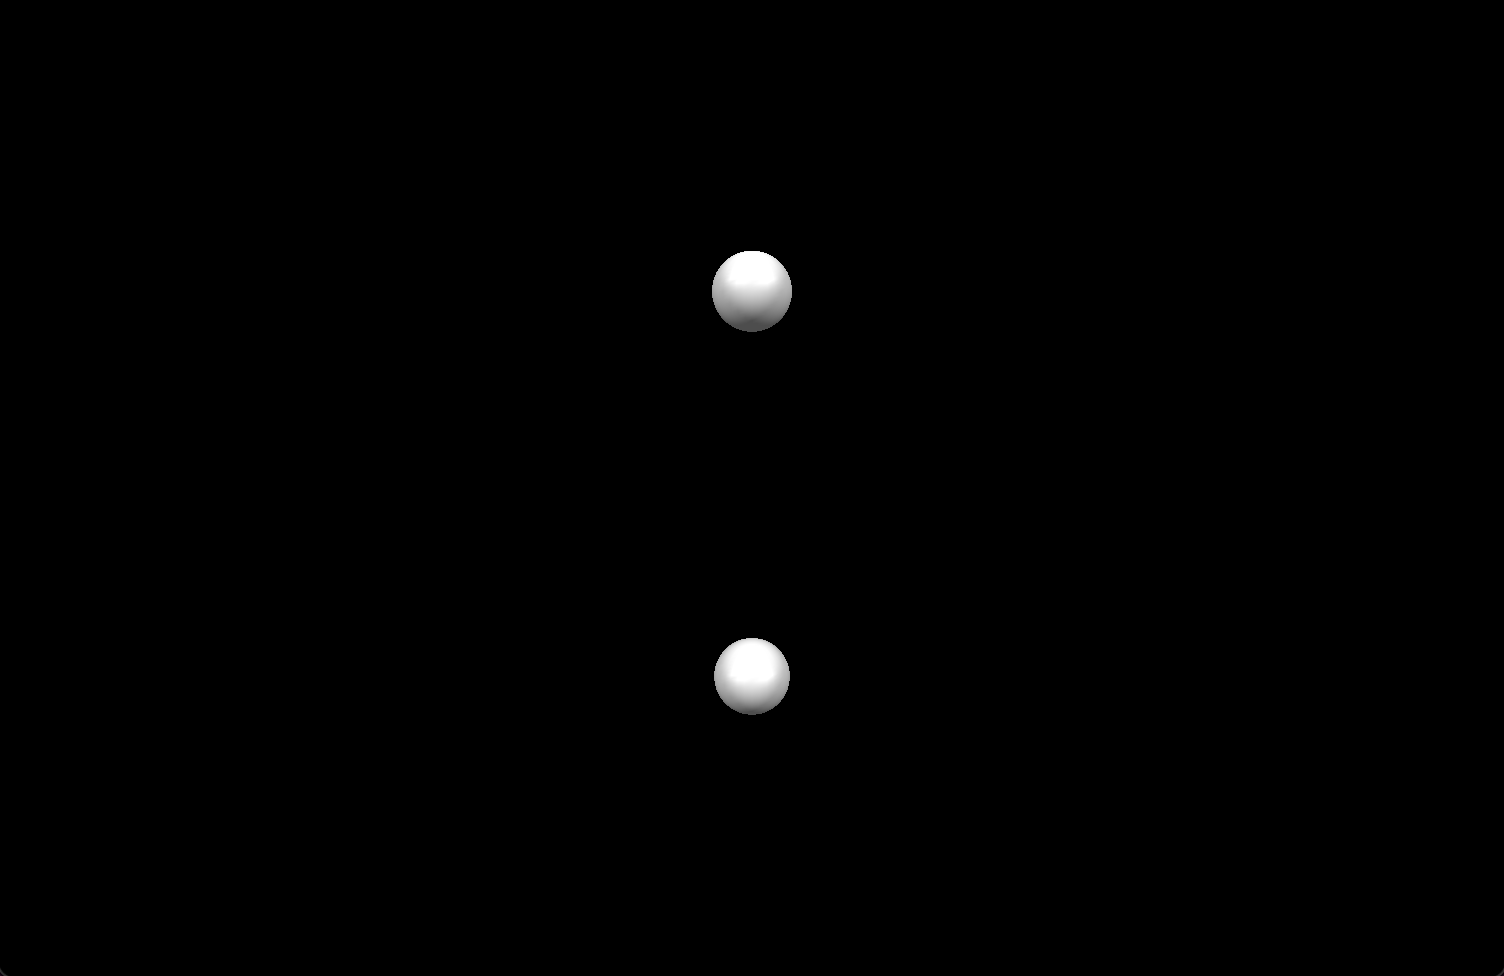
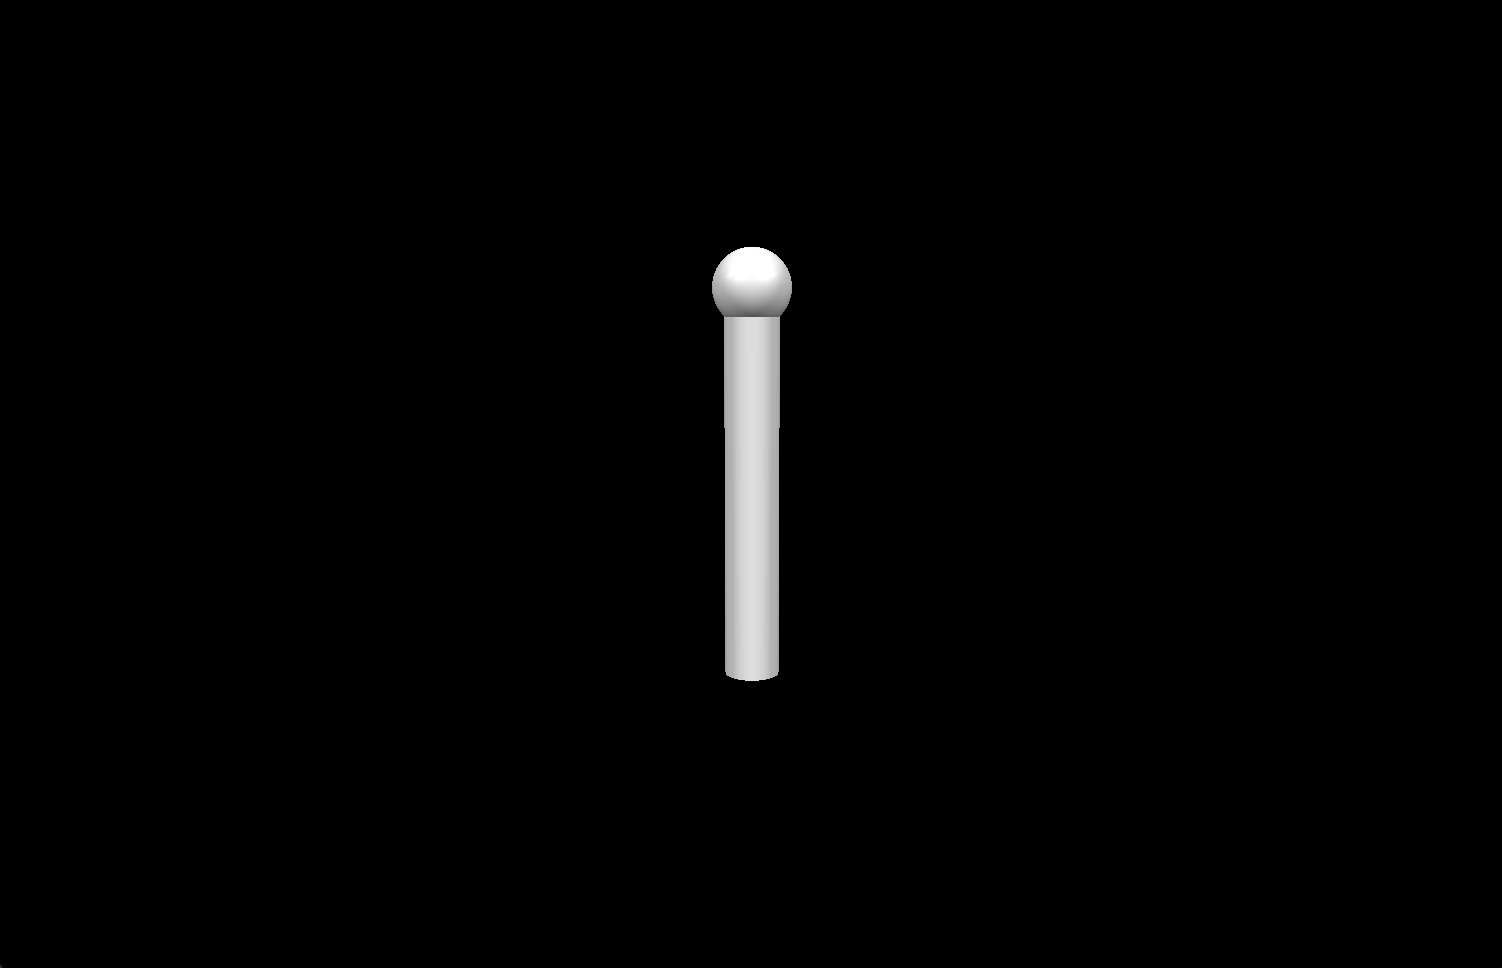
intermediate test

Changed region(s): [[0.4594, 0.3099, 0.5513, 0.7438]]

diff --git a/tutorials/docs/1_pendulum.md b/tutorials/docs/1_pendulum.md
@@ -1,19 +1,119 @@
-## Tutorial 1 - Simulation with pendulums
+# Tutorial 1 - Simulation with pendulums
 
 This tutorial aims at showcasing the main features of SAI when defining a simulation world. All the tutorial files are present in the `tutorials` folder.
 
 A very basic and uncomplete simulation is provided. Following this tutorial, you will learn how to complete the roboti model, add things to the simulation and interact with it.
+
+## Launching the simulation and understanding the config files
 
 First, launch the first tutorial. From the root folder of the SAI repository:
 ```
 sh scripts/tutorial_launch.sh 1
 ```
 
-You should see a window opening, showing two spheres on a black background:
-[](images/1_initial_simulation.png)
+You should see a window opening, showing a sphere and cylinder on a black background:
+![](images/1_initial_simulation.png)
 
-Those spheres represent a simple pendulum, hanging vertically, but the link between the pendulums is not represented yet. there are already a few things that you can do with this simulation:
+This represents a simple pendulum, hanging vertically, attached to the world on its upper sphere. there are already a few things that you can do with this simulation:
 - move, zoom and unzoom the camera using the mouse (scrolling wheel, left click + drag, center click + drag, crtl + left click + drag, shift + left click + drag, arrow keys, A or Z keys)
-- interact with the pendulum by right clicking on the bottom sphere and dragging it left or right
+- interact with the pendulum by right clicking on the cylinder sphere and dragging it left or right
 
 Note that the gravity seems not to afect the pendulum. We will change this soon.
+
+In order to define a simulation in SAI, we need 3 types of files. We need a xml config file for the SAI simulation definition, we need a world file to define the virtual world, and we need a urdf file for each robot we want to simulate (in the current case, for the pendulum). Let's look at those files.
+
+- The urdf file for the pendulum is located in `tutorials/tuto_config_folder/robot_files/pendulum.urdf` and its contents are:
+```
+<?xml version="1.0" ?>
+
+<robot name="pendulum">
+
+	<link name="base_link">
+		<inertial>
+			<origin xyz="0.0 0.0 0.0" rpy="0 0 0" />
+			<mass value="1" />
+			<inertia ixx="0.1" iyy="0.1" izz="0.1" ixy="0" ixz="0" iyz="0" />
+		</inertial>
+		<visual>
+			<origin xyz="0.0 0.0 0.0" rpy="0 0 0" />
+			<geometry>
+				<sphere radius="0.1" />
+			</geometry>
+		</visual>
+	</link>
+	<link name="link1">
+		<inertial>
+			<origin xyz="0.0 0.0 -0.5" rpy="0 0 0" />
+			<mass value="1.0" />
+			<inertia ixx="0.1" iyy="0.1" izz="0.1" ixy="0" ixz="0" iyz="0" />
+		</inertial>
+		<visual>
+			<origin xyz="0.0 0.0 -0.5" rpy="0 0 0" />
+			<geometry>
+				<cylinder radius="0.07" length="1" />
+			</geometry>
+		</visual>
+	</link>
+
+	<joint name="j0" type="revolute">
+		<parent link="base_link" />
+		<child link="link1" />
+		<origin xyz="0 0 0"/>
+		<axis xyz="1 0 0" />
+		<limit lower="-2.967" upper="2.967" effort="176" velocity="1.7104" />
+	</joint>
+
+</robot>
+```
+
+In order to define a robot model in the URDF format, we need to define links and joints. The kinematic structure of the robot is defined by the joints. Each joint has a type, a parent, a child, a position in its parent joint. For more information, look at the [ROS official URDF documentation](https://wiki.ros.org/urdf/XML/model)
+
+The links are used to define inertial properties, visual and collision elements. Inertial properties are mandatory in SAI, visual and collision elements are optional.
+
+- The world file is `tutorials/tuto_config_folder/world_files/1_pendulum_world.urdf`. Its content is
+```
+<?xml version="1.0" ?>
+
+<world name="tuto_1_world" gravity="0.0 0.0 -9.81">
+
+	<robot name="pendulum">
+		<model dir="${TUTORIALS_ROBOT_FILES_FOLDER}" path="pendulum.urdf" name="pendulum" />
+	</robot>
+
+	<light name="light1" type="directional">
+		<position xyz="2.0 -2.0 2.0" />
+		<lookat xyz="0.0 0.0 0.0" />
+	</light>
+
+	<light name="light2" type="directional">
+		<position xyz="2.0 2.0 2.0" />
+		<lookat xyz="0.0 0.0 0.0" />
+	</light>
+
+	<camera name="camera_fixed">
+		<position xyz="3.0 0.0 0.0" />
+		<vertical xyz="0.0 0.0 1.0" />
+		<lookat xyz="0.0 0.0 -0.5" />
+	</camera>
+
+</world>
+```
+
+The world file contains robot models, objects (there are no objects presents in this example yet), lights and cameras to render the world.
+
+- The SAI configuration file is `tutorials/tuto_config_folder/xml_files/1_pendulum.xml`. For now, it is very simple:
+```
+<redisConfiguration namespacePrefix="sai_tutorial" />
+
+<simvizConfiguration worldFilePath="${TUTORIALS_WORLD_FILES_FOLDER}/1_pendulum_world.urdf">
+</simvizConfiguration>
+```
+
+## Adding an end effector to the pendulum
+
+We will modify the pendulum urdf model to add a sphere at the end effector. There are two ways of doing it:
+#### 1 - Add a second visual element to the link1
+
+Let's add a second visual element to the link1 in order to put a sphere at the end of the pendulum. The visual element needs a geometry tag. You can draw inspiration from the visual element for the sphere in the base_link.
+
+>! test
